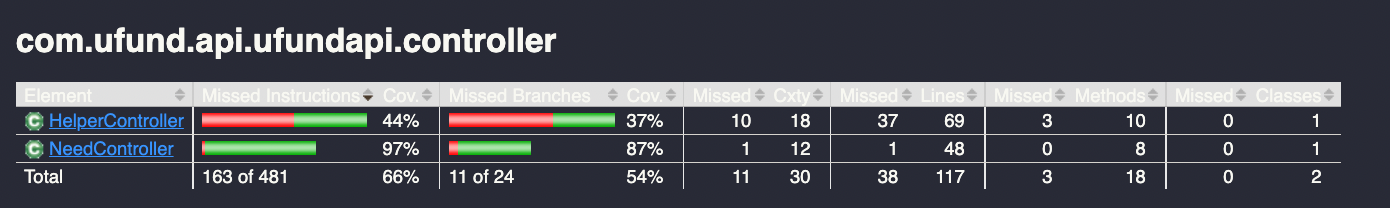
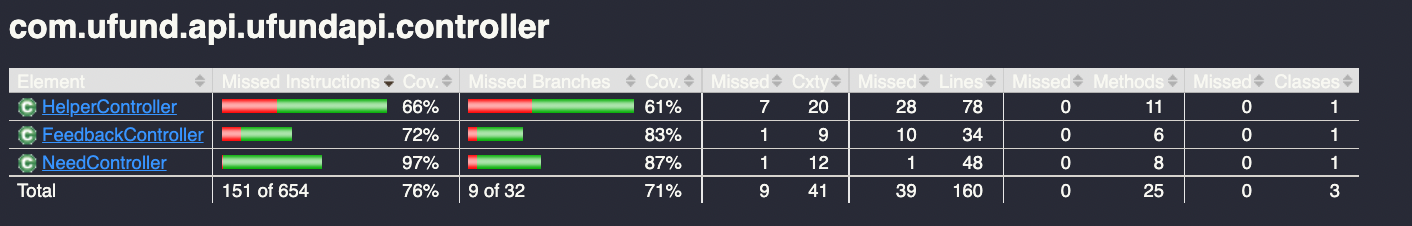
edit designdoc to correctly display the code coverage

diff --git a/docs/DesignDoc.md b/docs/DesignDoc.md
@@ -259,7 +259,7 @@ baskets from the underlying storage into Helper instances.
 
 **U-fund API Controller Code Coverage:**
 ![Replace with Controller Tier Code Coverage, etc.](Controller-Code-Coverage.png)
-  - **Controller**: The controller tier has 66% code coverage overall, meaning that the team will improve on it in the following Sprints. 
+  - **Controller**: The controller tier has 76% code coverage overall.
 
 **U-fund API Model Code Coverage:**
 ![Replace with your Model Tier Code Coverage, etc.](Model-Code-Coverage.png)
@@ -267,7 +267,7 @@ baskets from the underlying storage into Helper instances.
 
 **U-fund API Persistence Code Coverage:**
 ![Replace with your Persistence Tier Code Coverage, etc.](Persistence-Code-Coverage.png)
-  - **Persistence**: The reason for low percentages on the Persistence tier is because the team is currently missing one of the test file for HelperFileDAO. The team will implement and improve the unit tetsing for both persistence and controller classes for the following Sprint.
+  - **Persistence**: The persistence unit test is well done.
  
 ## Ongoing Rationale
 >_**[Sprint 1, 2, 3 & 4]** Throughout the project, provide a time stamp **(yyyy/mm/dd): Sprint # and description** of any _**major**_ team decisions or design milestones/changes and corresponding justification._
